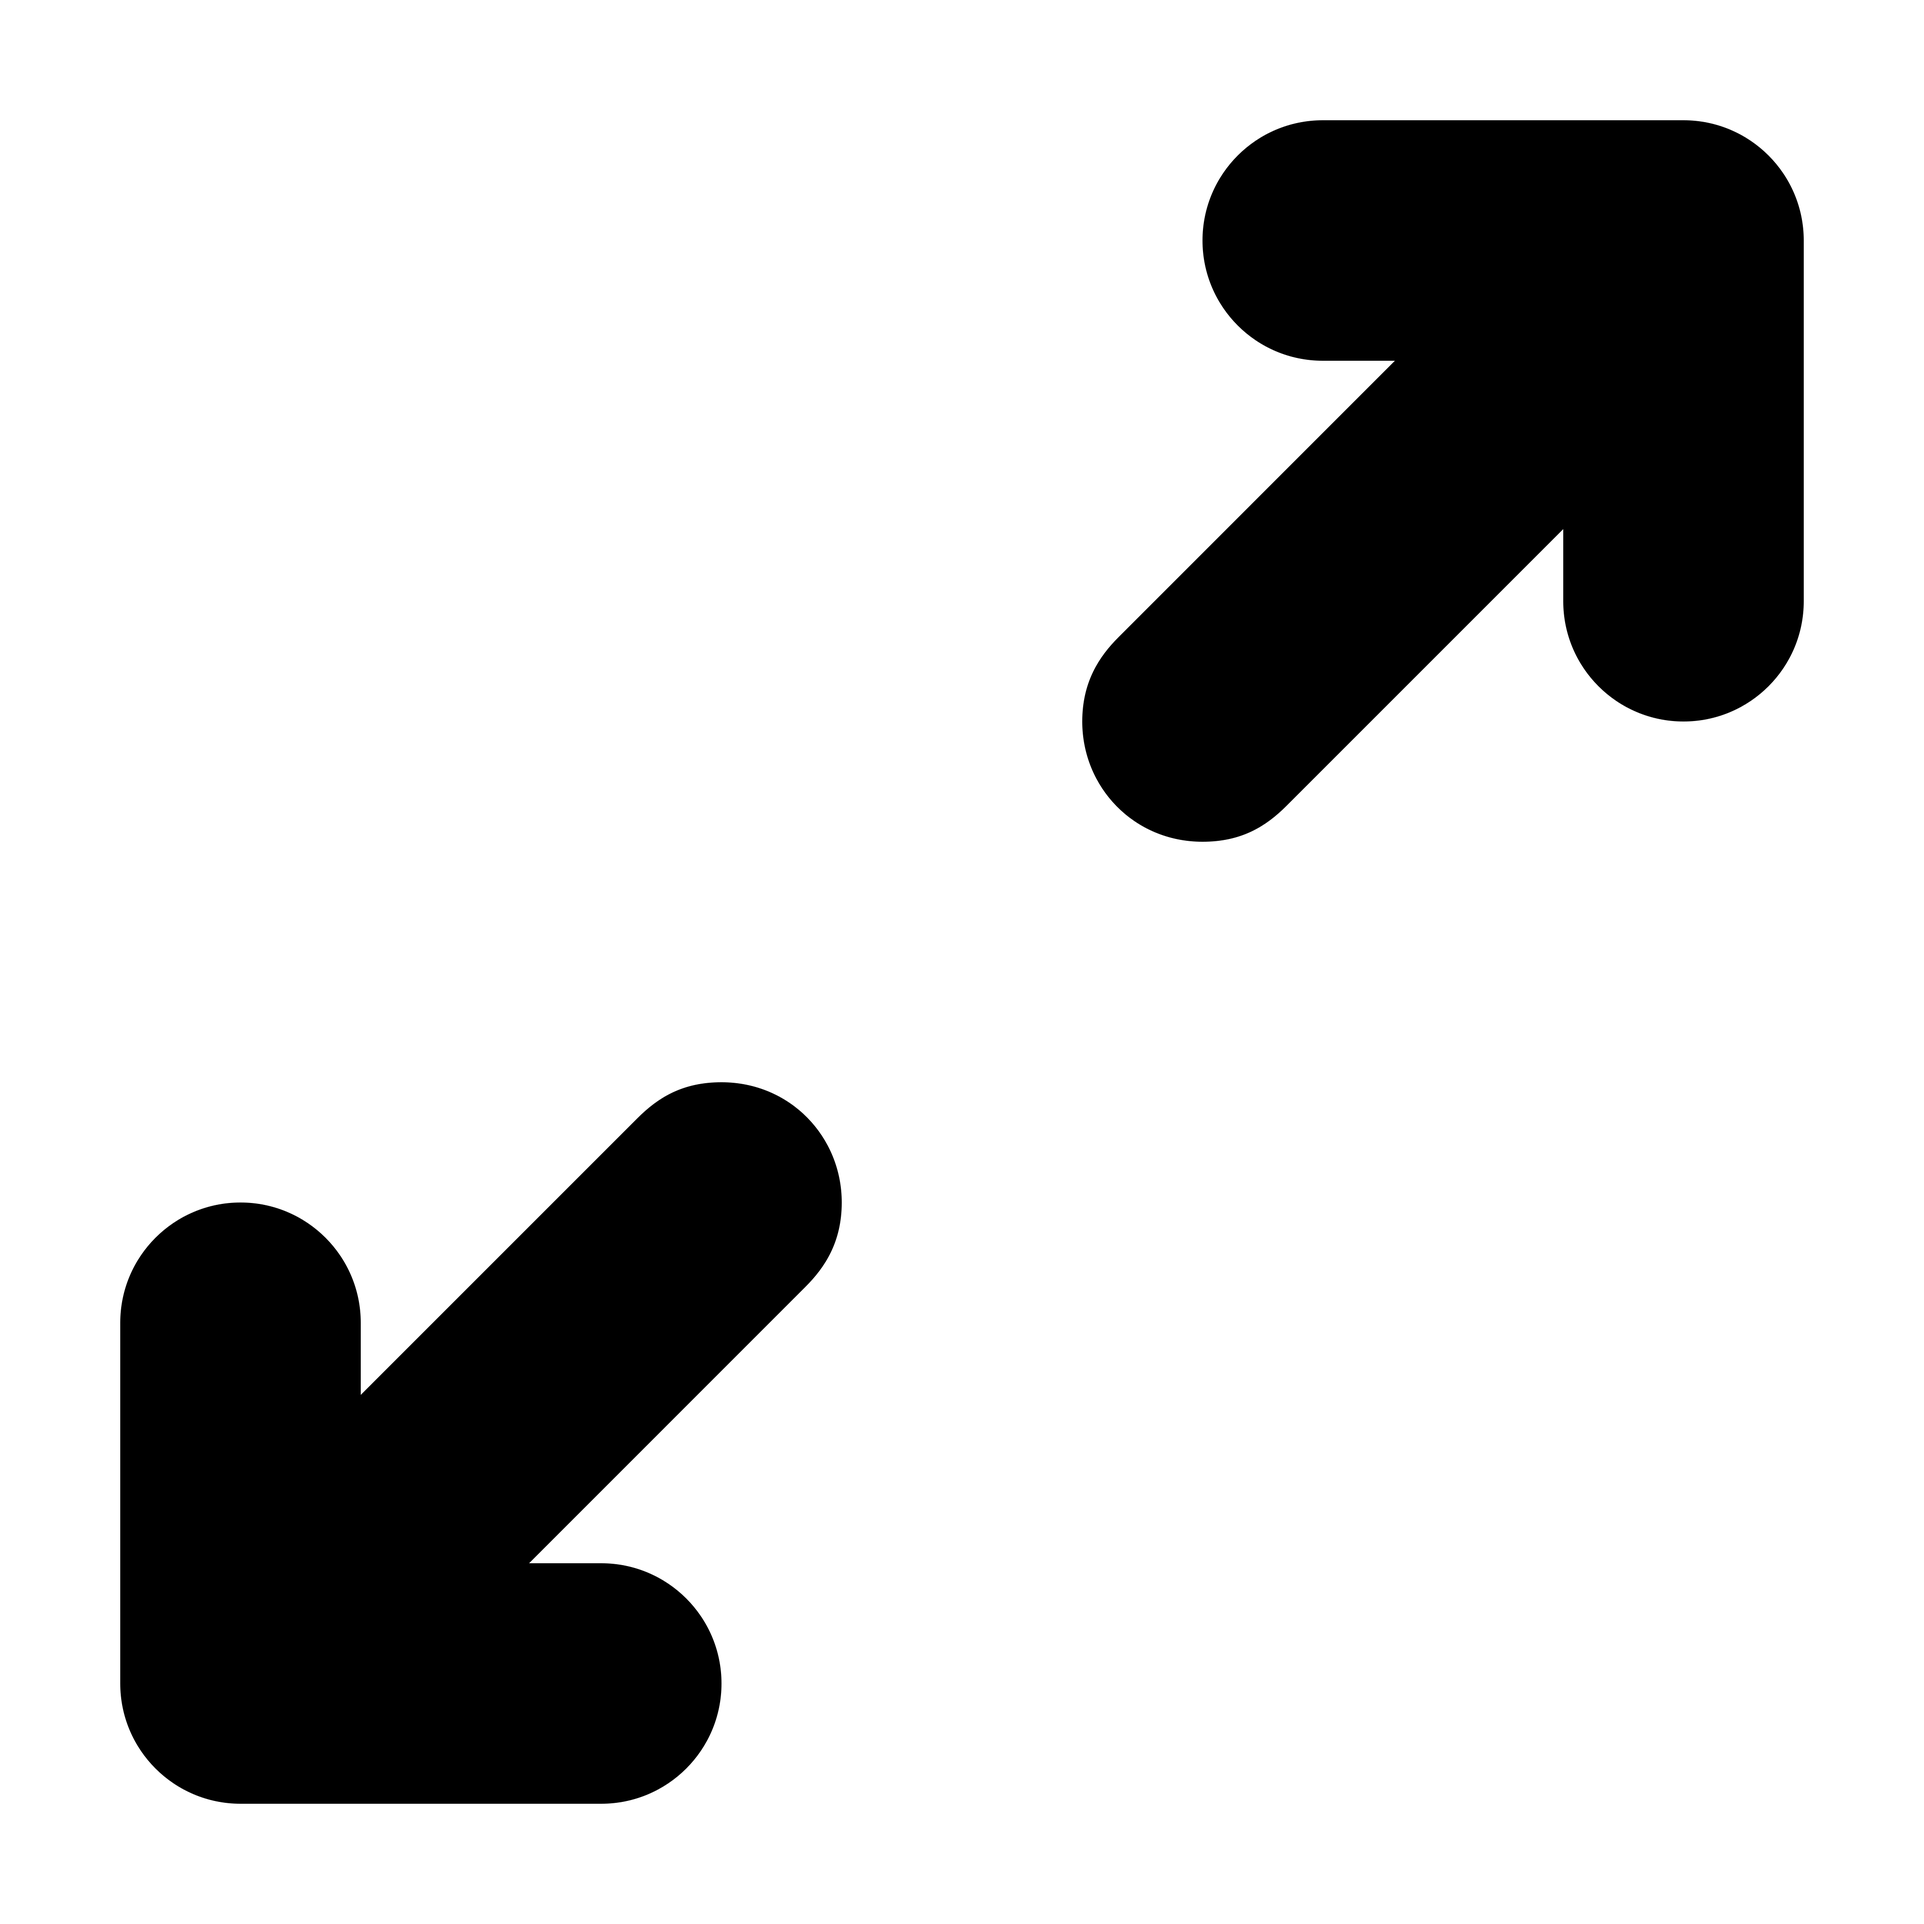
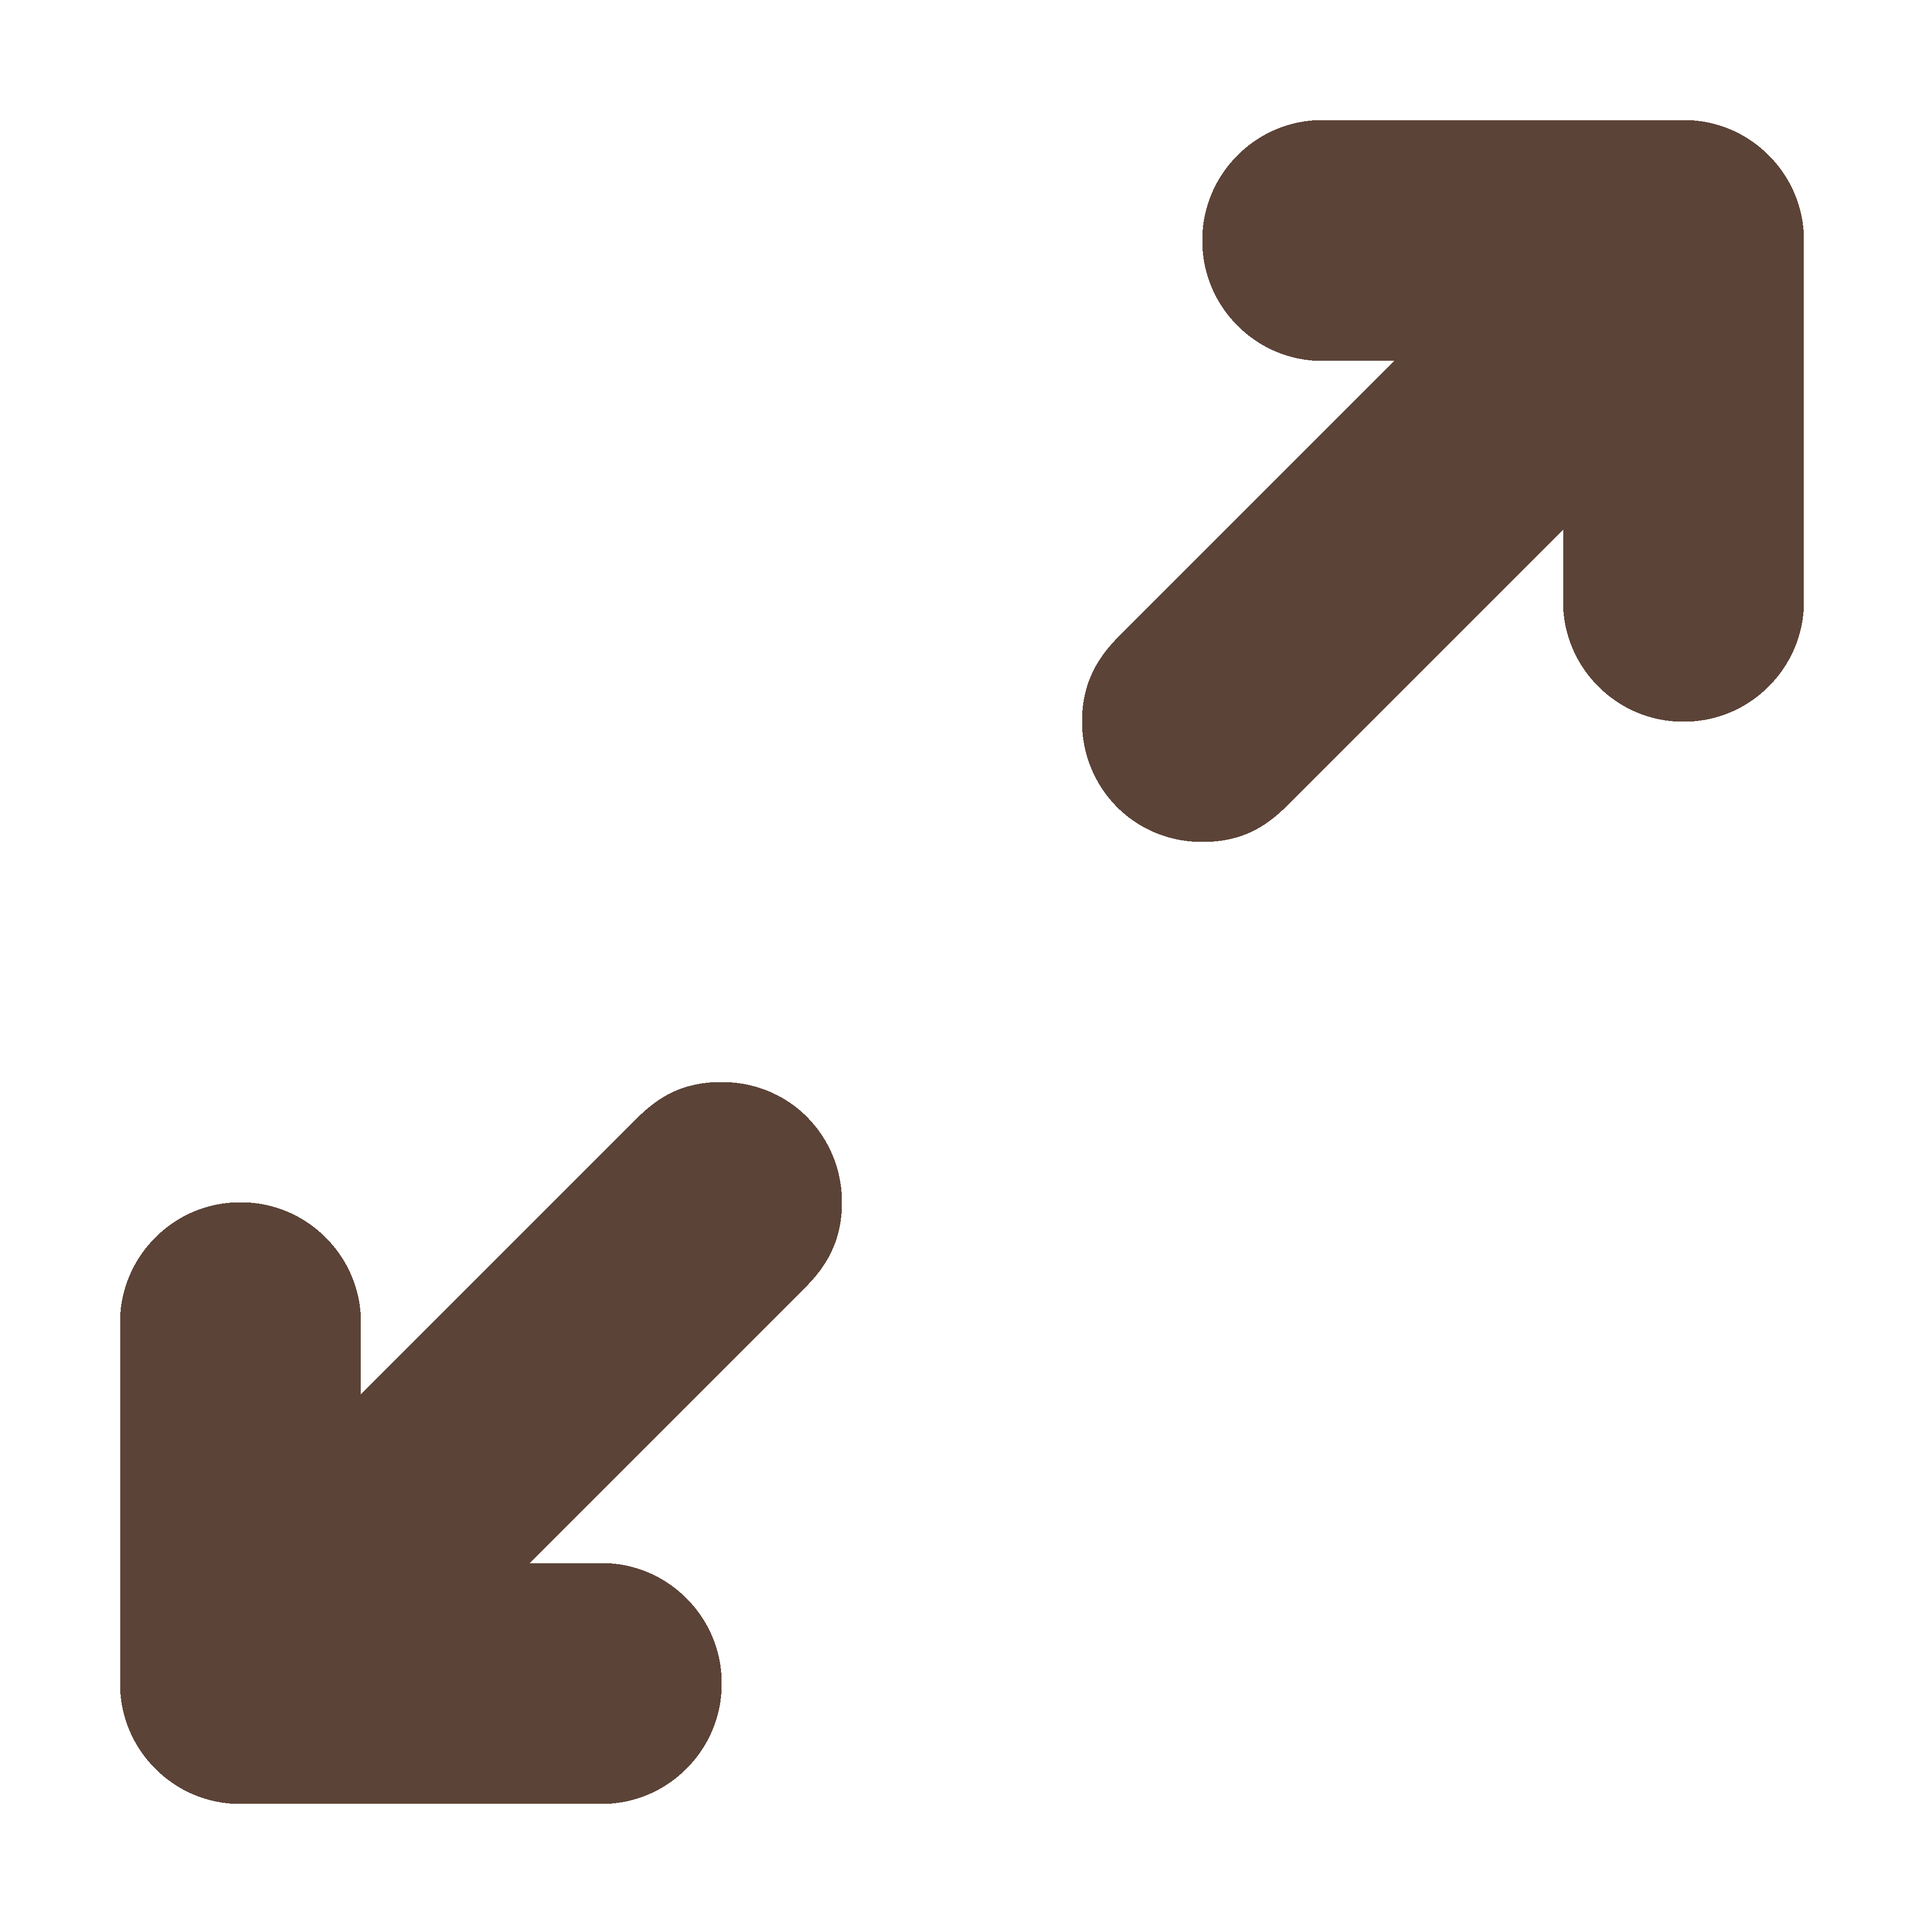
Add files via upload

Changed region(s): [[0.5625, 0.0625, 0.9375, 0.4375], [0.0625, 0.5625, 0.4375, 0.9375]]

diff --git a/style.css b/style.css
@@ -78,12 +78,12 @@ body {
   border: 0;
   border-radius: 2vmin;
   width: 40vmin;
-  background: #111;
+  background: #5c4337;
   color: #fff;
   margin: 2vmin;
   padding: 1vmin;
   cursor: pointer;
-  transition: 0.4s;
+  transition: .4s;
 }
 
 .btn__reload:hover {
@@ -92,7 +92,7 @@ body {
 }
 
 .btn__reload:active {
-  transform: scale(0.8);
+  transform: scale(.8);
 }
 
 .dicription {
@@ -115,19 +115,22 @@ body {
   font-size: 3vmin;
   position: fixed;
   z-index: 15;
-  background: rgba(0, 0, 0, 0.9);
+  background: rgba(0, 0, 0, .9);
   width: 100%;
   height: 100%;
   overflow: auto;
   pointer-events: none;
   opacity: 0;
   visibility: hidden;
-  transition: 0.4s;
+  transition: .4s;
 }
 
 .popup__content {
-  background-color: #333;
-  color: #fff;
+  background-color: #F6E6DA;
+  background-image: linear-gradient(rgb(246, 230, 218, .5), rgba(0, 0, 0, .6)), url('./images/2048.png');
+  background-size: 100%;
+  background-position: left;
+  color: #130F0D;
   padding: 7vmin 7vmin;
   max-width: 70vmin;
   max-height: 70vmin;
@@ -136,7 +139,7 @@ body {
 }
 
 .popup__title {
-  transform: scale(.85);
+  transform: scale(.9);
   animation: pulse 2s ease-in-out infinite;
 }
 
@@ -152,12 +155,12 @@ body {
   border: 0;
   border-radius: 2vmin;
   width: 40vmin;
-  background: #111;
+  background: #5c4337;
   color: #fff;
   margin: 2vmin;
   padding: 1vmin;
   cursor: pointer;
-  transition: 0.4s;
+  transition: .4s;
 }
 
 .btn__reload-popup:hover {
@@ -166,19 +169,19 @@ body {
 }
 
 .btn__reload-popup:active {
-  transform: scale(0.8);
+  transform: scale(.8);
 }
 
 @keyframes show {
   0% {
-    opacity: 0.5;
+    opacity: .5;
     transform: scale(0);
   }
 }
 
 @keyframes pulse {
   from {
-    transform: scale(.85);
+    transform: scale(.9);
   }
 
   50% {
@@ -186,7 +189,7 @@ body {
   }
 
   to {
-    transform: scale(.85);
+    transform: scale(.9);
   }
 }
 
@@ -208,11 +211,11 @@ body {
     background-color: #F6E6DA;
     background-image: url('./images/FS.png');
     background-size: 100%;
-    transition: 0.4s;
+    transition: .4s;
   }
 
   .btn__fullscreen:active {
-    transform: scale(0.8);
+    transform: scale(.8);
   }
 
   .info__inner {
